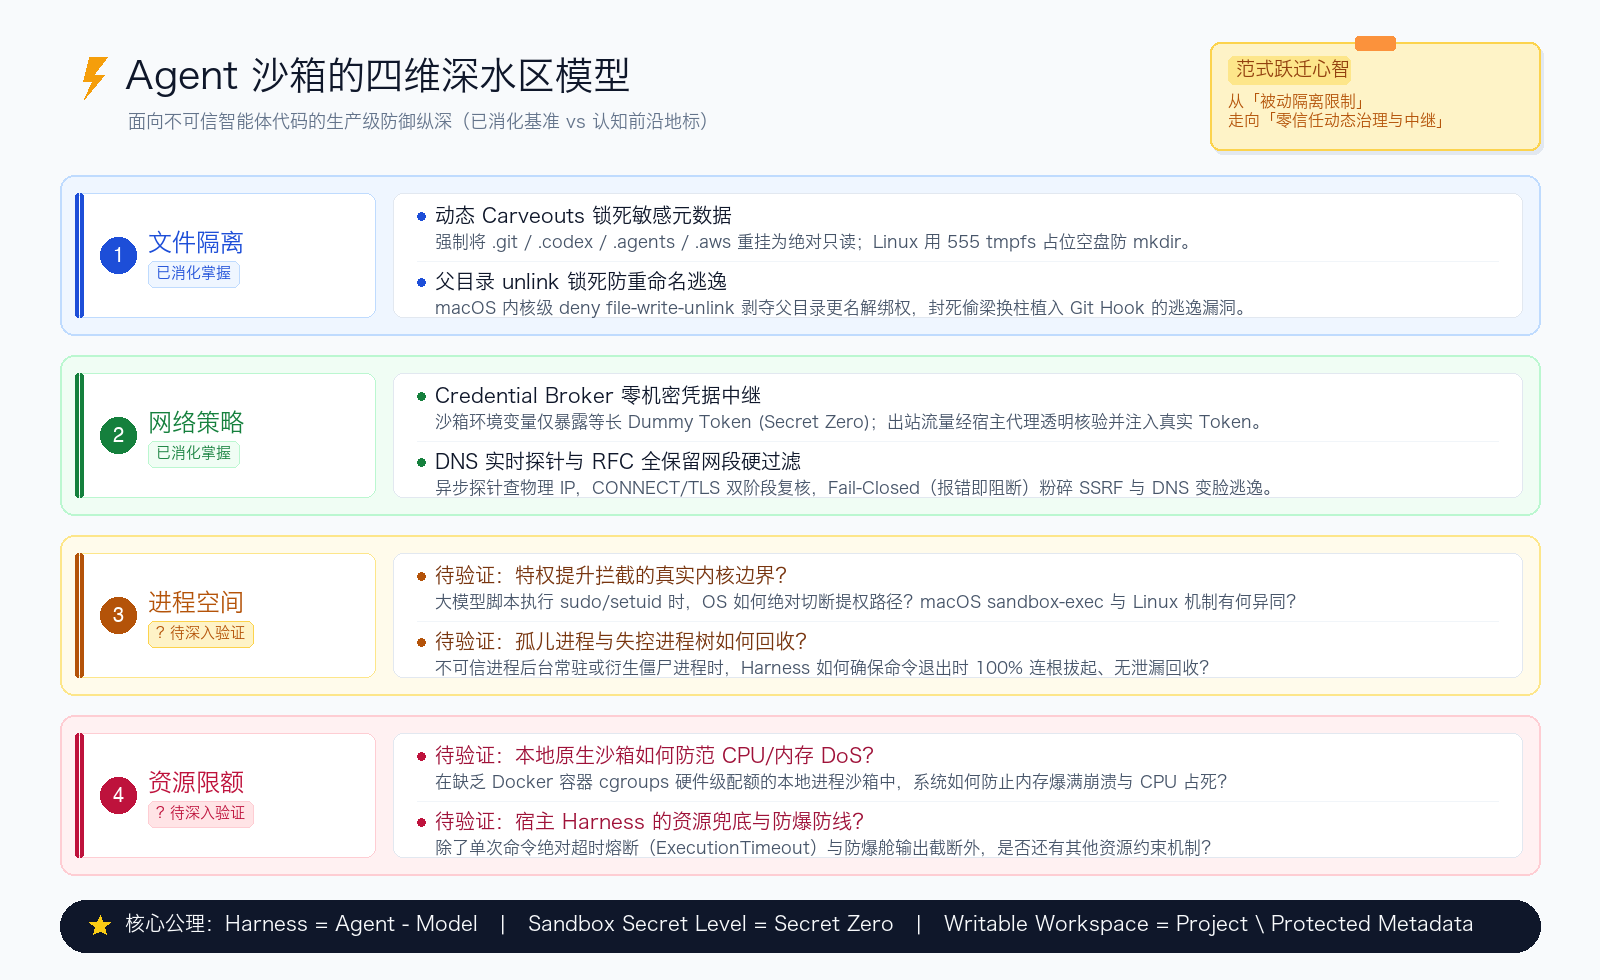
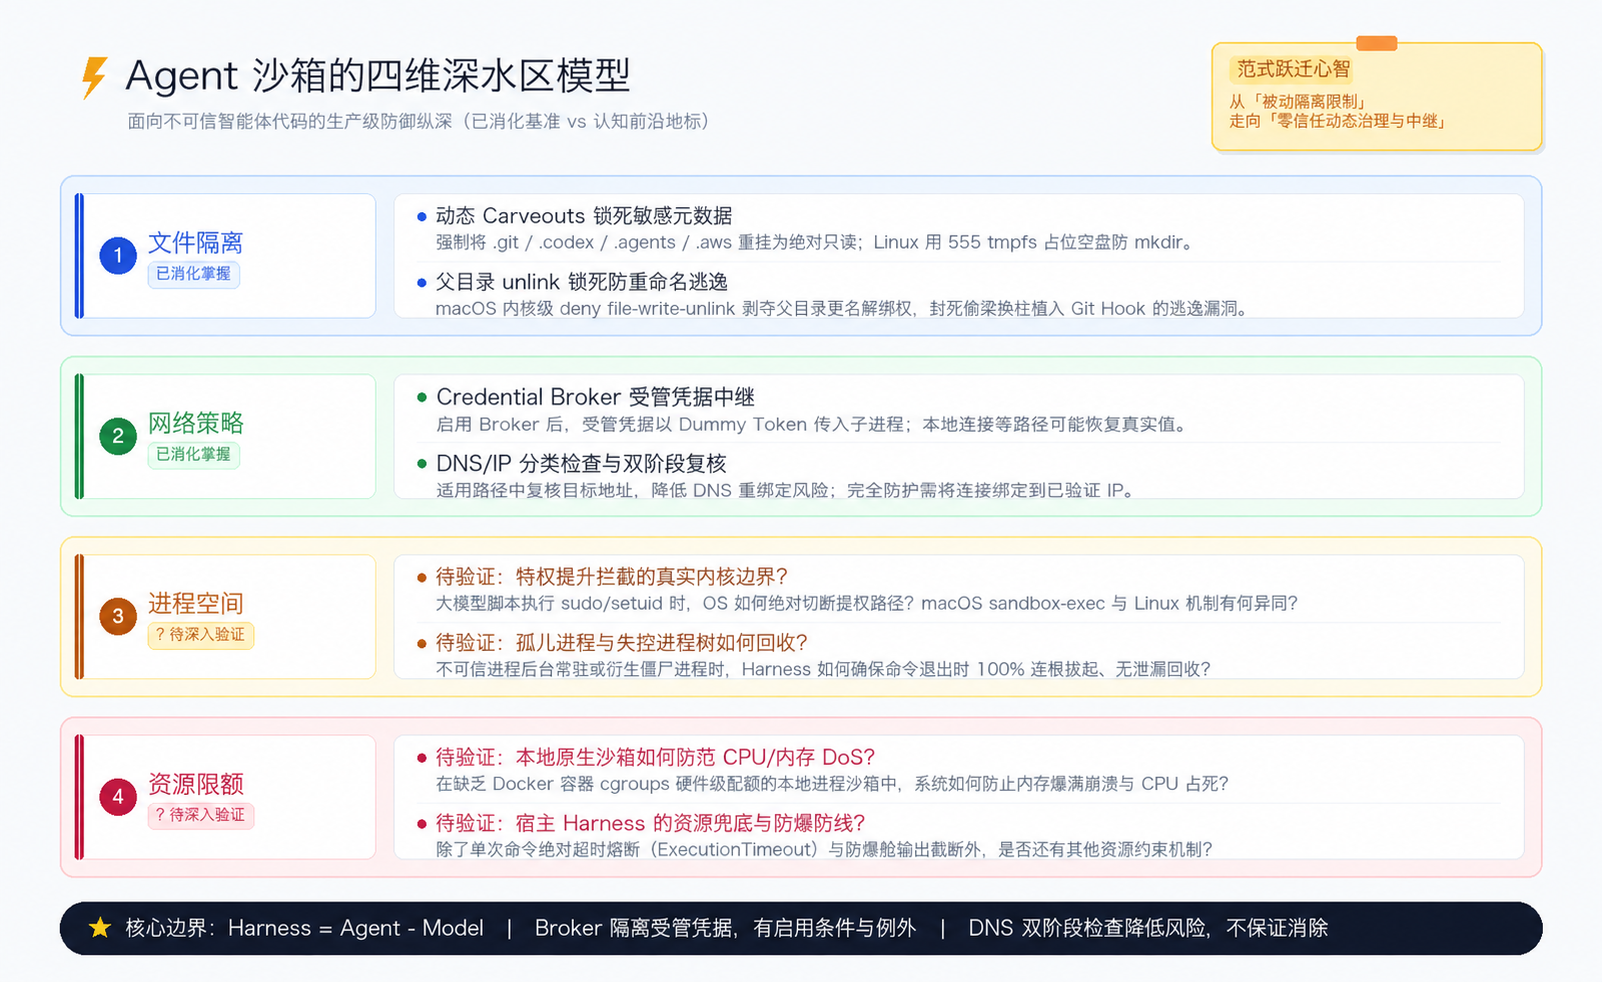
update fifth note: decrease DNS rolebinding risk

diff --git a/02_deep_dives/openai_codex_sandbox.md b/02_deep_dives/openai_codex_sandbox.md
@@ -32,14 +32,14 @@
 
 ![Agent 执行沙箱的四维深水区模型](../assets/sandbox_agent_deep_water.png)
 
-> 图中的“Secret Zero”仅作为受管凭据隔离的设计目标；其启用条件、管理范围和例外以本文第 4 节为准，不代表整个沙箱中的所有机密均已归零。
+> 图示中的 Broker 隔离针对受管凭据，启用条件与回退例外见第 4 节；DNS 双阶段检查用于降低重绑定风险，检查与实际连接之间的竞态及防护限制见第 6.4 节。
 
 #### 四维深水区的工程对齐与认知跃迁
 
 | 隔离维度 | 表面层次（经典理论抽象） | 生产深水区（Agent Harness 真实落地） | 深度逆向解析 / 认知进度 |
 | :--- | :--- | :--- | :--- |
 | **① 文件隔离** | 限定可读 / 限定可写在工程目录内 | **元数据动态抠洞（Carveouts）+ 防 Git Hook 提权**：<br/>• 强制把 `.git`/`.codex` 等关键配置重挂为只读；<br/>• 内核级 `deny file-write-unlink` 锁死父目录，封死重命名改名逃逸。 | ✅ **已消化掌握**（详见本文第 5 节） |
-| **② 网络策略** | 允许必要连接 / 拦截未授权访问 | **Credential Broker 受管凭据中继 + SSRF 实时探针**：<br/>• 启用 Broker 后，对识别并纳入管理的环境凭据实施 Dummy Token 虚拟化；本地连接等例外需另行核验；<br/>• 异步探针比对 RFC 全保留网段，双阶段复核封死 DNS Rebinding。 | ✅ **已消化掌握**（详见本文第 4 节、第 6 节） |
+| **② 网络策略** | 允许必要连接 / 拦截未授权访问 | **Credential Broker 受管凭据中继 + SSRF 实时探针**：<br/>• 启用 Broker 后，对识别并纳入管理的环境凭据实施 Dummy Token 虚拟化；本地连接等例外需另行核验；<br/>• DNS/IP 分类检查与适用路径中的双阶段复核用于降低 DNS 重绑定风险，不保证完全消除。 | ✅ **已消化掌握**（详见本文第 4 节、第 6 节） |
 | **③ 进程空间** | 隔离进程可见范围 / 限制权限 | **【待深入验证 ❓】特权剥夺与进程生命周期管控**：<br/>• 待验证：大模型脚本执行 sudo/setuid 时，OS 如何在内核级切断提权？<br/>• 待验证：不可信子进程后台常驻或失控时，Harness 如何确保全量回收进程树？ | ❓ **认知前沿待探索**（见文末第 7 节地标） |
 | **④ 资源限额** | CPU · 内存 · 磁盘 · 进程时长 | **【待深入验证 ❓】无 cgroups 环境下的资源护栏**：<br/>• 待验证：本地原生沙箱缺乏硬件级 cgroups 配额，如何防范 CPU/内存 DoS？<br/>• 待验证：除单次命令超时熔断与输出截断外，宿主是否还有更多防护？ | ❓ **认知前沿待探索**（见文末第 7 节地标） |
 
@@ -687,7 +687,7 @@ for ancestor in protected_path.ancestors().skip(1) {
 
 ## 🌐 6. 网络安全纵深：SSRF 防御与 DNS 实时探针机制
 
-在智能体（Agent）的执行环境中，不可信代码对网络的滥用不仅限于向外泄露机密，还包括**反向刺探宿主机本地（`127.0.0.1`）以及企业内网环境（`192.168.x.x`）**。为了封死此类攻击，Codex 在 `network-proxy` 模块中构建了以 **DNS 异步探针** 与 **RFC 全网段过滤** 为核心的 SSRF 防御体系。
+在智能体（Agent）的执行环境中，不可信代码对网络的滥用不仅限于向外泄露机密，还包括**反向刺探宿主机本地（`127.0.0.1`）以及企业内网环境（`192.168.x.x`）**。为降低此类 SSRF 风险，Codex 在 `network-proxy` 模块中结合 DNS 异步解析与 IP 地址分类检查实施防护；这些检查不能被视为完全消除 DNS 重绑定风险的保证。
 
 ### 6.1 概念基准与核心定义
 
@@ -766,7 +766,7 @@ sequenceDiagram
 
 ### 6.4 一手工程落地：Codex 的四重立体探针体系
 
-在 `codex-rs/network-proxy` 中，Codex 实现了工业级的防御闭环：
+以下描述本次核验的 `codex-rs/network-proxy` 源码快照（提交 `44fe510`，2026-09-28）中的检查机制。检查是否执行取决于请求路径和生效策略；多次解析检查不等于已在实际连接中固定目标 IP。
 
 #### 1. 异步实时探针（Asynchronous DNS Probe）
 **【通俗心智：绝不单凭名字认人，出门前当场“查户口”】**
@@ -840,11 +840,14 @@ let addrs = match timeout(lookup_timeout, lookup(host.to_string(), port)).await 
 ```
 $$\text{DNS 探测失败} \implies \text{无法证明目标属于合法公网} \implies \text{执行绝对阻断}$$
 
-#### 4. 双阶段校验与 Host 走私防范（粉碎 DNS Rebinding）
-**【通俗心智：动真格前二次复核，当场抓获“变脸大师”】**
-为了彻底消灭黑客利用 TTL=0 在握手后动态将公网 IP 切换为内网 IP 的“变脸时差”，Codex 在 `mitm.rs` 中设计了二次探针复核机制：
-- **阶段 1（CONNECT 握手）**：客户端建立隧道时，初次调用探针查一次户口；
-- **阶段 2（TLS 解密与 HTTP 分发）**：真正剥开外层加密、准备把数据向外发送的瞬间，**掏出探针当场再查一次户口**！如果发现此时解析出的 IP 已经变脸成了内网私有地址，立刻掐断连接；
+#### 4. 双阶段校验与 Host 一致性检查：降低 DNS 重绑定风险
+
+**通俗理解：多检查一次，可以发现部分地址变化，但不能保证连接时地址仍未变化。**
+
+在适用的 CONNECT 隧道与 MITM HTTPS 请求处理路径中，Codex 会在不同阶段检查目标。在 `mitm.rs` 中，源码明确说明二次检查用于防御 CONNECT 与内层 HTTPS 请求之间的 DNS 重绑定：
+
+- **阶段 1（CONNECT 握手）**：按生效策略执行域名授权与本地/私有地址检查；
+- **阶段 2（TLS 解密后的 HTTP 请求处理）**：再次调用目标检查逻辑。如果此时被判定为不允许的本地/私有目标，则阻断该请求；
 - **报文 Host 强一致校验**：
   ```rust
   if let Some(request_host) = extract_request_host(req) {
@@ -854,7 +857,13 @@ $$\text{DNS 探测失败} \implies \text{无法证明目标属于合法公网} \
       }
   }
   ```
-  杜绝了不可信代码在 CONNECT 隧道中伪造外层白名单域名、而在内层 HTTP 报文中夹带 `Host: 127.0.0.1` 实施 HTTP 走私逃逸。
+  该分支拒绝内层请求主机名与隧道目标主机名不一致的请求，降低目标混淆风险；Host 一致性检查本身不能保证同一域名的 DNS 解析地址保持不变。
+
+**剩余限制：检查通过的 IP 不一定就是实际连接使用的 IP。**如果第二次检查通过后，建立上游连接时再次解析域名，攻击者仍可能让新的解析结果指向内网地址。这属于“检查时”与“使用时”之间的竞态，不能靠“已经检查两次”就认定已消除。
+
+要封闭这类解析与连接之间的竞态，需要在传输层将实际连接绑定到已经验证的 IP 地址，避免重新解析到未经检查的地址。官方文档明确将当前 DNS/IP 检查描述为尽力防护（best effort）：可以降低 DNS 重绑定风险，但不能完全消除。如果威胁模型包含恶意 DNS，还需要结合更底层的出站访问控制。
+
+> **一手依据**：[MITM 请求中的二次检查](https://github.com/openai/codex/blob/44fe510ce3ee61c8ef623adcbf89b901c73ddd61/codex-rs/network-proxy/src/mitm.rs#L388)、[官方 DNS 重绑定防护及其限制](https://learn.chatgpt.com/docs/agent-approvals-security#dns-rebinding-protections)。
 
 ---
 
@@ -865,7 +874,7 @@ $$\text{DNS 探测失败} \implies \text{无法证明目标属于合法公网} \
 - [x] **文件系统元数据硬阻断（防 Git Hook 提权）**（已内化至第 5 节）：
   - 核心包含受保护元数据清单（`.git`/`.codex`/`.agents`/`.aws`）、Linux `bwrap` 只读与 555 占位挂载、macOS SBPL 正则阻断与 `deny file-write-unlink` 锁死父目录。
 - [x] **SSRF / DNS 实时探针机制**（已内化至第 6 节）：
-  - 核心包含 RFC 全保留网段阻断、Fail-Closed 异步探针、以及 CONNECT/TLS 双阶段重检防御 DNS Rebinding。
+  - 核心包含非公网地址分类检查、Fail-Closed 异步探针，以及适用 CONNECT/MITM 路径中的双阶段重检；这些机制降低 DNS 重绑定风险，但检查与实际连接之间仍可能存在竞态。
 - [x] **Credential Broker 凭据隔离机制**（已内化至第 4 节）：
   - Broker 启用条件与受管凭据范围、形状保持替身、协议探测与延迟 MITM 请求头注入，以及本地连接真实凭据回退例外。
 - [ ] **编排器的两阶段提权（Two-Attempt Loop）**：
